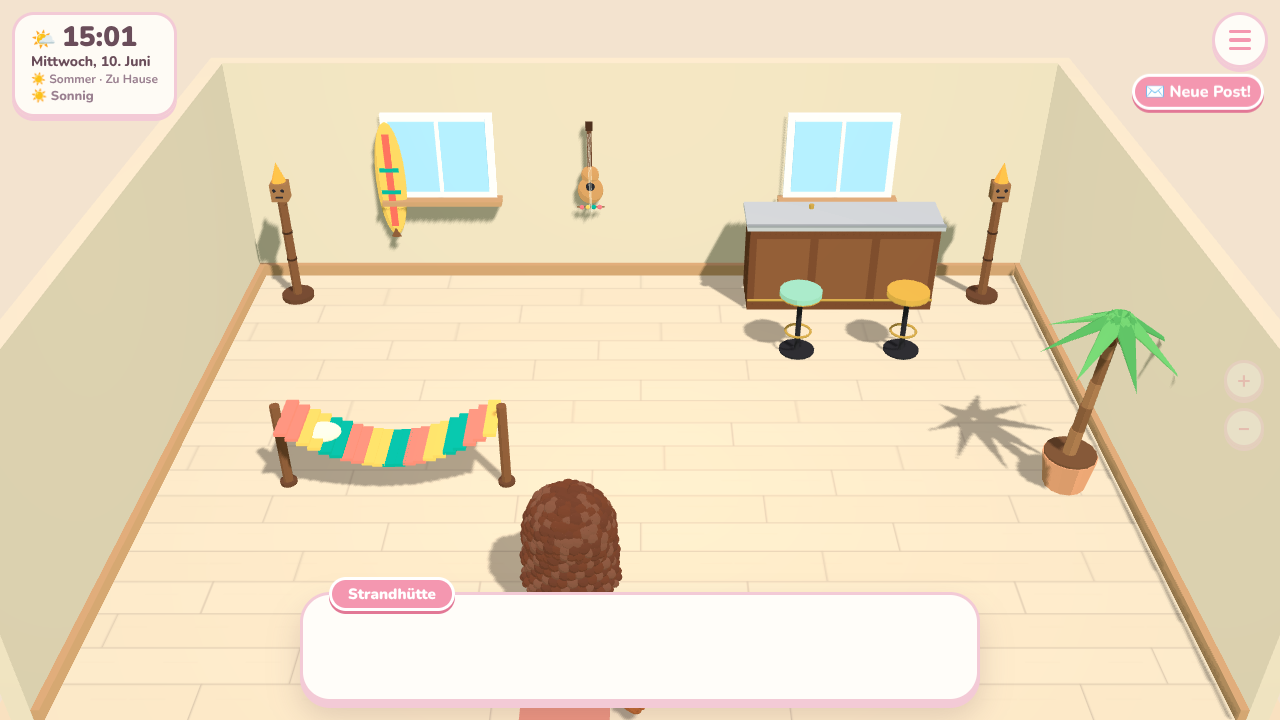
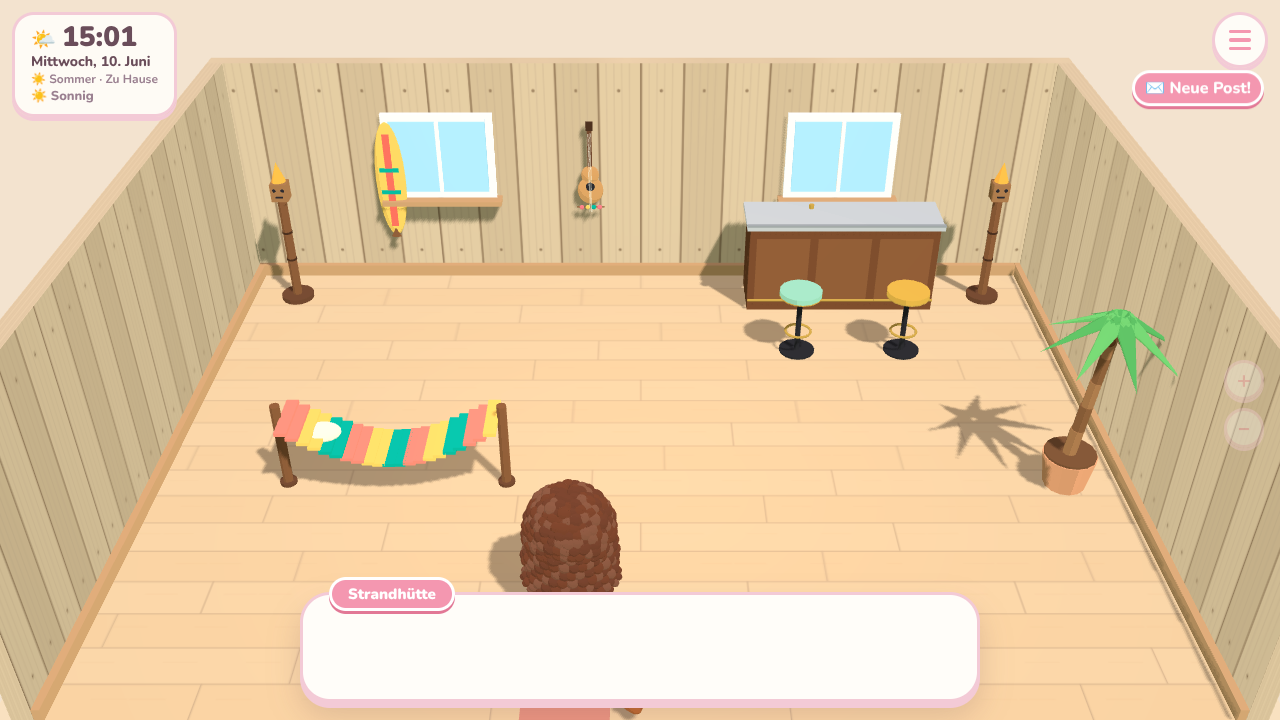
Inselhütte als Strand-Shack: Wellblechdach, Holzbretter außen und innen
Neues Hausmodell makeShack, Tapete tapete-shack mit Brettermuster.

Claude-Session: https://claude.ai/code/session_01ThTYhPHTkGtFy4ue8CC8z3

diff --git a/src/world3d/models/buildings.ts b/src/world3d/models/buildings.ts
@@ -618,6 +618,117 @@ export function makeBistro(): HouseModel {
   return h;
 }
 
+/**
+ * Strand-Shack (Inselhütte): niedriges Holzhaus mit rostigem Wellblechdach, hellen verwitterten Brettern,
+ * weißen Sprossenfenstern, kleiner Veranda und blauem Schild – nach einem Kaffee-Shack an einer Hawaii-Küste.
+ */
+export function makeShack(): HouseModel {
+  const g = new THREE.Group();
+  const P = palette.shack;
+  const W = 4.5;
+  const D = 2.4;
+  const wallH = 1.35;
+  const y0 = 0.3; // Hütte steht auf kleinen Pfählen
+  const zf = D / 2;
+
+  // Pfähle und Bodenbalken
+  for (const x of [-2.1, -0.7, 0.7, 2.1]) for (const z of [-1, 1]) g.add(b(0.14, y0, 0.14, P.boardDark, x, y0 / 2, z));
+  g.add(b(W + 0.1, 0.08, D + 0.1, P.boardDark, 0, y0, 0));
+
+  // Wand aus senkrechten Brettern (abwechselnd helle und dunkle Töne), Fugen als dünne dunkle Leisten
+  g.add(b(W, wallH, D, P.board, 0, y0 + wallH / 2, 0));
+  const boards = 26;
+  for (let i = 0; i <= boards; i++) {
+    const x = -W / 2 + (i / boards) * W;
+    g.add(b(0.025, wallH, 0.03, P.boardDark, x, y0 + wallH / 2, zf + 0.01));
+  }
+  for (let i = 0; i < boards; i += 3) g.add(b(W / boards, wallH, 0.02, i % 2 ? P.boardDark : P.board, -W / 2 + ((i + 0.5) / boards) * W, y0 + wallH / 2, zf + 0.015));
+
+  // flaches Satteldach aus rostigem Wellblech
+  const roofH = 0.75;
+  const over = 0.4;
+  const tri = new THREE.Shape();
+  tri.moveTo(-(D / 2 + over), 0);
+  tri.lineTo(D / 2 + over, 0);
+  tri.lineTo(0, roofH);
+  tri.closePath();
+  const roofGeo = new THREE.ExtrudeGeometry(tri, { depth: W + over * 2, bevelEnabled: false });
+  roofGeo.rotateY(Math.PI / 2);
+  roofGeo.translate(-(W / 2 + over), y0 + wallH, 0);
+  g.add(mesh(roofGeo, toon(P.rust)));
+  // Wellen: schmale Leisten, die vom First zur Traufe laufen, in wechselnden Rosttönen
+  const slope = Math.atan2(roofH, D / 2 + over);
+  const slopeLen = Math.hypot(roofH, D / 2 + over);
+  const ribs = 34;
+  for (const side of [1, -1]) {
+    for (let i = 0; i < ribs; i++) {
+      const x = -(W / 2 + over) + ((i + 0.5) / ribs) * (W + over * 2);
+      const color = i % 5 === 0 ? P.rustDark : i % 2 ? P.rust : P.rustLight;
+      const rib = b(0.05, 0.03, slopeLen, color, x, 0, 0);
+      rib.rotation.x = side * slope;
+      rib.position.set(x, y0 + wallH + roofH / 2 + 0.02, side * ((D / 2 + over) / 2));
+      g.add(rib);
+    }
+  }
+  g.add(b(W + over * 2 + 0.1, 0.06, 0.12, P.rustDark, 0, y0 + wallH + roofH + 0.03, 0));
+  // Blechrohr
+  g.add(c(0.1, 0.5, P.roofMetal, 1.4, y0 + wallH + roofH * 0.7, -0.3));
+
+  // Veranda: Boden, Geländer und Pfosten
+  const vz = zf + 0.5;
+  g.add(b(W - 0.8, 0.07, 0.9, P.boardDark, -0.05, y0 + 0.02, vz - 0.05));
+  g.add(b(0.1, wallH - 0.1, 0.1, P.board, -W / 2 + 0.55, y0 + wallH / 2, vz + 0.35));
+  g.add(b(0.1, wallH - 0.1, 0.1, P.board, W / 2 - 0.65, y0 + wallH / 2, vz + 0.35));
+  g.add(b(W - 1.2, 0.07, 0.07, P.board, -0.05, y0 + 0.52, vz + 0.38));
+  for (let i = 0; i < 11; i++) g.add(b(0.04, 0.4, 0.04, P.board, -W / 2 + 0.7 + (i / 10) * (W - 1.4), y0 + 0.3, vz + 0.38));
+  // Stufen
+  g.add(b(0.9, 0.08, 0.3, P.boardDark, 0, 0.18, vz + 0.55));
+
+  // Tür (Sprossentür)
+  g.add(b(0.62, 1.0, 0.07, '#ffffff', 0, y0 + 0.55, zf + 0.04));
+  g.add(b(0.5, 0.86, 0.06, palette.door.base, 0, y0 + 0.55, zf + 0.07));
+
+  // Fenster: weiße Rahmen mit Sprossen, je mit kleinen Blattpflanzen darunter
+  const windows: THREE.Vector3[] = [];
+  for (const x of [-1.5, 1.5]) {
+    const y = y0 + 0.85;
+    g.add(b(0.78, 0.72, 0.06, '#ffffff', x, y, zf + 0.03));
+    g.add(b(0.64, 0.58, 0.05, windowGlass, x, y, zf + 0.06));
+    for (const dx of [-0.16, 0, 0.16]) g.add(b(0.025, 0.58, 0.05, '#ffffff', x + dx, y, zf + 0.09));
+    for (const dy of [-0.15, 0.15]) g.add(b(0.64, 0.025, 0.05, '#ffffff', x, y + dy, zf + 0.09));
+    windows.push(new THREE.Vector3(x, y, zf + 0.1));
+  }
+  // Topfpflanzen auf der Veranda (rot-grüne Blätter)
+  for (const [x, col] of [[-1.7, '#b0434d'], [1.6, '#4c9a55']] as const) {
+    g.add(c(0.14, 0.2, '#c77a52', x, y0 + 0.16, vz + 0.2));
+    g.add(s(0.22, 0.2, 0.22, col, x, y0 + 0.4, vz + 0.2));
+  }
+
+  // Schild über dem Dach: blaues Brett mit orangefarbener Schrift
+  const sign = document.createElement('canvas');
+  sign.width = 400;
+  sign.height = 80;
+  const ctx = sign.getContext('2d') as CanvasRenderingContext2D;
+  ctx.fillStyle = P.sign;
+  ctx.fillRect(0, 0, 400, 80);
+  ctx.textAlign = 'center';
+  ctx.textBaseline = 'middle';
+  ctx.fillStyle = P.signText;
+  ctx.font = '800 44px "Nunito Variable", Nunito, sans-serif';
+  ctx.fillText('Strand-Shack', 200, 42);
+  const tex = new THREE.CanvasTexture(sign);
+  tex.colorSpace = THREE.SRGBColorSpace;
+  const board = new THREE.Mesh(new THREE.PlaneGeometry(2.1, 0.42), new THREE.MeshLambertMaterial({ map: tex }));
+  board.position.set(-0.3, y0 + wallH + roofH + 0.45, 0.3);
+  g.add(board);
+  for (const x of [-1.3, 0.7]) g.add(b(0.05, 0.4, 0.05, P.boardDark, x, y0 + wallH + roofH + 0.2, 0.28));
+
+  g.traverse((o) => {
+    if ((o as THREE.Mesh).isMesh) o.castShadow = true;
+  });
+  return { group: g, windows };
+}
+
 /** Lars' Praxis mit kleiner Apotheke: weißes Haus mit grünem Kreuz, Schild, Kräuterkübeln & Bank */
 export function makePraxis(): HouseModel {
   const h = makeHouse(palette.roof.mint);

diff --git a/src/data/furniture.ts b/src/data/furniture.ts
@@ -410,6 +410,7 @@ export const WALLPAPERS: readonly SurfaceDef[] = [
   { id: 'tapete-uni-bordeaux', name: 'Einfarbig Bordeaux', style: 'retro', price: 450, kind: 'tapete', pattern: 'flach', color: '#8d3b45', accent: '#8d3b45', description: 'Satt und gemütlich wie ein Samtsessel.' },
   { id: 'tapete-uni-nachtblau', name: 'Einfarbig Nachtblau', style: 'modern', price: 450, kind: 'tapete', pattern: 'flach', color: '#34406b', accent: '#34406b', description: 'Wie der Himmel um Mitternacht.' },
   { id: 'tapete-kalkputz', name: 'Lehmputz', style: 'japandi', price: 650, kind: 'tapete', pattern: 'putz', color: '#e6dccb', accent: '#cdbfa8', description: 'Eine Wand wie von Hand verputzt – warm, matt und ganz leicht wolkig.' },
+  { id: 'tapete-shack', name: 'Verwitterte Holzbretter', style: 'basis', price: 800, kind: 'tapete', pattern: 'bretter', color: '#dcc3a3', accent: '#b89a74', description: 'Helle, von Sonne und Salz gebleichte Bretter wie an einer kleinen Strandhütte.' },
   { id: 'tapete-holzlatten', name: 'Holzlatten-Wand', style: 'japandi', price: 950, kind: 'tapete', pattern: 'latten', color: '#d9b98c', accent: '#a9875e', description: 'Schmale Eichenlatten mit dunklen Fugen. Riecht ein bisschen nach Sauna im Wald.' },
   { id: 'tapete-bibliothek', name: 'Dunkle Holzvertäfelung', style: 'darkacademia', price: 1000, kind: 'tapete', pattern: 'vertaefelung', color: '#5a3a2a', accent: '#4a2e20', description: 'Halbhohe Paneele aus dunklem Holz – wie im Lesesaal einer alten Universität.' },
   { id: 'tapete-faecher', name: 'Fächer-Tapete', style: 'artdeco', price: 900, kind: 'tapete', pattern: 'faecher', color: '#1f3a33', accent: '#d9b45a', description: 'Goldene Fächer auf dunklem Smaragd. Ein bisschen Zwanziger-Jahre-Glamour.' },

diff --git a/src/gfx/interior.ts b/src/gfx/interior.ts
@@ -495,6 +495,27 @@ export function drawPattern(ctx: CanvasRenderingContext2D, def: SurfaceDef, s: n
       }
       break;
     }
+    case 'bretter': {
+      // breite, verwitterte Bretter mit deutlichen Fugen, Maserung und Nagelköpfen (Strand-Shack)
+      const n = 5;
+      const w = s / n;
+      for (let i = 0; i < n; i++) {
+        ctx.fillStyle = i % 2 ? darken(color, 0.06) : lighten(color, 0.04);
+        ctx.fillRect(i * w, 0, w, s);
+        ctx.globalAlpha = 0.25;
+        ctx.fillStyle = darken(color, 0.25);
+        for (let k = 0; k < 4; k++) ctx.fillRect(i * w + w * (0.2 + 0.18 * k), 0, Math.max(1, s / 160), s);
+        ctx.globalAlpha = 1;
+        ctx.fillStyle = darken(accent, 0.25);
+        ctx.fillRect(i * w, 0, Math.max(2, w * 0.05), s);
+        for (const y of [s * 0.12, s * 0.88]) {
+          ctx.beginPath();
+          ctx.arc(i * w + w / 2, y, s / 140, 0, Math.PI * 2);
+          ctx.fill();
+        }
+      }
+      break;
+    }
     case 'vertaefelung': {
       // senkrechte Holzleisten mit Fugen + Abschlussleiste oben
       ctx.fillStyle = accent;

diff --git a/src/data/gastHaeuser.ts b/src/data/gastHaeuser.ts
@@ -126,8 +126,8 @@ export const GUEST_HOUSES: Readonly<Record<string, GuestHouse>> = {
   'haus-thalia': {
     npc: 'thalia',
     name: 'Thalias Häuschen',
-    wallpaper: 'tapete-uni-sand',
-    floor: 'boden-dielen-esche',
+    wallpaper: 'tapete-shack',
+    floor: 'boden-dielen',
     // Schlicht und Mid-Century: wenige gute Stücke, viel Luft
     items: [
       { id: 'teaksideboard', x: 3, y: 0 },
@@ -292,8 +292,8 @@ export const GUEST_HOUSES: Readonly<Record<string, GuestHouse>> = {
   inselhuette: {
     npc: '',
     name: 'Strandhütte',
-    wallpaper: 'tapete-uni-sand',
-    floor: 'boden-dielen-esche',
+    wallpaper: 'tapete-shack',
+    floor: 'boden-dielen',
     items: [
       { id: 'surfbrett', x: 1, y: 0, rot: 0 },
       { id: 'ukulele', x: 3, y: 0, rot: 0 },

diff --git a/src/world3d/MapView3D.ts b/src/world3d/MapView3D.ts
@@ -17,6 +17,7 @@ import {
   makeBridge,
   makeFountain,
   makeHouse,
+  makeShack,
   makeLantern,
   makeMailbox,
   makePlotMarks,
@@ -113,7 +114,7 @@ export function buildMapView3D(scene: THREE.Scene, map: WorldMap, season: Season
         node = makeRock(seed);
         break;
       case 'house': {
-        const h: HouseModel = makeHouse(ROOF[o.variant ?? 'rose'] ?? palette.roof.rose);
+        const h: HouseModel = o.variant === 'shack' ? makeShack() : makeHouse(ROOF[o.variant ?? 'rose'] ?? palette.roof.rose);
         node = h.group;
         for (const w of h.windows) windows.push(w.clone().add(new THREE.Vector3(c.x, 0, c.z)));
         occluders.push({ id: o.id, node, x: c.x, z: c.z, w: o.w, h: o.h });

diff --git a/src/data/maps/insel.ts b/src/data/maps/insel.ts
@@ -51,6 +51,6 @@ export const INSEL_FEST = { x: 28, y: 52 };
 /** Boote: am Dorfstrand und auf der Insel (erscheinen, sobald alle Herzen voll sind) */
 export const INSEL_OBJECTS: readonly MapObjectDef[] = [
   { id: 'boot-dorf', kind: 'landmark', variant: 'boot', x: 27, y: 36, w: 2, h: 1, requires: 'inselOffen' },
-  { id: 'inselhuette', kind: 'house', variant: 'butter', x: 33, y: 49, requires: 'inselFest' },
+  { id: 'inselhuette', kind: 'house', variant: 'shack', x: 33, y: 49, requires: 'inselFest' },
   { id: 'boot-insel', kind: 'landmark', variant: 'boot', x: 15, y: 52, w: 2, h: 1, requires: 'inselOffen' },
 ];

diff --git a/src/style/palette.ts b/src/style/palette.ts
@@ -42,6 +42,8 @@ export const palette = {
     sky: '#a9cdf2',
   },
   wall: { cream: '#fff5e3', shade: '#f1e2c8', trim: '#ffffff' },
+  /** Strand-Shack: verwittertes Holz, rostiges Wellblech, blaues Schild */
+  shack: { board: '#dcc3a3', boardDark: '#c9ad8a', rust: '#b86a3e', rustDark: '#8f4a2a', rustLight: '#d08a55', sign: '#4f8fd0', signText: '#f0a55a', roofMetal: '#8a9097' },
   window: { glass: '#cfeefc', frame: '#ffffff', glow: '#ffe6a3' },
   door: { base: '#d99c78', dark: '#b97f5f' },
 

diff --git a/src/data/catalog.ts b/src/data/catalog.ts
@@ -479,7 +479,7 @@ const SURFACE_STYLES: Record<string, DesignStyle[]> = {
   'boden-hexmosaik': ['bistro'],
 };
 
-const WALL_MATERIAL = new Set(['kacheln', 'backstein', 'glas', 'vertaefelung', 'shoji', 'putz', 'latten', 'sichtbeton']);
+const WALL_MATERIAL = new Set(['kacheln', 'backstein', 'glas', 'vertaefelung', 'shoji', 'putz', 'latten', 'bretter', 'sichtbeton']);
 const FLOOR_TYPE: Record<string, string> = {
   dielen: 'dielen',
   schiff: 'dielen',

diff --git a/docs/game-mechanics.md b/docs/game-mechanics.md
@@ -225,7 +225,7 @@ Wetter und Feste laufen nach echter Zeit.
 - **Sträuße lohnen sich (Nov. 2026):** (1) **Geliebter Strauß:** Schenkt Lina einen Strauß, den die Person „liebt“, gibt es **10 Freundschaftspunkte mehr** (30 + 10) und eine eigene Dankes-Zeile (nur beim ersten Geschenk des Tages; gemochte Sträuße wie bisher). (2) **Lust auf einen Strauß:** Alle vier Wochen (reproduzierbar je Person und Woche, ohne Ablauf und ohne Strafe) hat jemand Lust auf einen bestimmten Strauß aus seinen Lieblingen (nur Sträuße ohne Spezialrezept) und erzählt es beim ersten Ansprechen des Tages, höchstens einmal am Tag; wer genau diesen Strauß schenkt, bekommt **noch einmal 10** und eine eigene Dankes-Zeile, danach ist die Lust gestillt. (3) **Vase im Haus:** Steht eine Vase mit Strauß oder ein Kranz im Haus, erwähnen das Gäste beim Besuch und alle Bewohner beim Plaudern (Erinnerungs-Tag `blumendeko`). Gemerkt in `world.dates` (`strauss-lust:<id>`, `strauss-gesagt:<id>`), kein neues Spielstand-Format. Logik `game/straussLust.ts`, Texte `data/straussLust.ts`.
 - **Strauß-Preise (Nov. 2026):** Sträuße sind jetzt etwa 2,5–3× so viel wert wie ihre Zutaten (Rosenstrauß 360 ⭐, Bunter Frühlingsstrauß 350, Lavendelstrauß 340, Sonnenblumenstrauß 250, Kräuterbund 180, Mischfarben-Strauß 540, Schwarzer Strauß 1 200). Gebunden wird weiter an Opas Werkbank, Reiter „Blumen“.
 - **Die versteckte Insel (Nov. 2026):** Die große Belohnung, wenn Lina bei **allen sieben Bewohnern alle fünf Herzen** hat (`game/insel.ts → alleHerzen`; alle müssen im Dorf wohnen). Dann taucht ein **Ruderboot am Dorfstrand** auf (Toast, Flag `inselOffen`, bleibt für immer). Beim Boot: „⛵ Zur Insel rudern“, Überfahrt mit Abblenden. Die Insel liegt im selben Kartenraster unterhalb des Dorfes (ab Reihe 40, `data/maps/insel.ts`), weit hinter dem tiefen Meer – zu Fuß unerreichbar: weißer Sand, Palmen (neue Naturart `Y`/`palme`), Blumenwiese, Büsche; sie ist **immer sonnig und sommerlich** (Wetter erzwingt „sonnig“ solange `session.onIsland`, Boden und Büsche bleiben auch im Winter sommerlich, keine Flocken, keine Fußspuren im Schnee) und hat **eigene Hawaii-Musik** (`insel`, `insel-lagune`, `insel-hula`, `insel-abendrot`: Ukulele, Marimba, leichter Swing). Beim **allerersten Besuch** erwartet Lina eine **Überraschungsparty**: alle sieben Bewohner stehen am Festplatz und sagen etwas Persönliches, danach gibt es die **Kiste**: das **Inselset** (Inselpalme, zwei Tiki-Fackeln, Hängematte, Surfbrett – nur als Geschenk, kein Katalog-Eintrag, `gift: true`). Danach ist die Insel jederzeit mit dem Boot erreichbar (Boot auf der Insel: zurück ins Dorf). Dorf-Zufallsfunde (Grabstellen, Strandfunde, Insekten) lassen die Insel aus; die Dorfkarte (M) zeigt nur das Dorf. Im Album: „Boot“ und „Party“. Kein neues Spielstand-Format (Flags `inselOffen`/`inselFest`, `world.dates`). Logik `game/insel.ts`, Szene `World3D.row/inselFest`, Texte `data/insel.ts`.
-- **Inselhütte & Ukulele (Nov. 2026):** Nach dem ersten Fest steht an der Ostseite der Insel eine **Strandhütte** (Karten-Objekt `inselhuette`, `requires: 'inselFest'`). Innen (Gasthaus-System `data/gastHaeuser.ts`, niemand wohnt dort, `npc: ''`): Surfbrett, **Ukulele**, Tiki-Fackeln, Hängematte, Palme und eine **Strandbar** mit Barhockern – dort gibt es **Kokoswasser** (alkoholfrei, `DrinkKind 'kokos'`), Double Lemon, Bier und Wasser. Das Inselset enthält jetzt auch die **Ukulele** (Wandmöbel, `gift: true`, auch im eigenen Haus aufhängbar). Anklicken → „🎶 Spielen“ öffnet das Ukulele-Fenster: vier Akkorde (C, Am, F, G) per Klick oder Tasten A S D F / 1–4, **keine Punkte, keine falschen Töne** (Web-Audio-Zupfklänge `uke-*`); nach 16 Schlägen ein kleiner Gruß. UI `ui/UkulelePanel.tsx`.
+- **Inselhütte & Ukulele (Nov. 2026):** Nach dem ersten Fest steht an der Ostseite der Insel ein **Strand-Shack** (rostiges Wellblechdach, helle verwitterte Bretter, Sprossenfenster, Veranda, Schild „Strand-Shack“; Modell `makeShack`, Karten-Objekt `inselhuette`, `requires: 'inselFest'`). Innen: Wände aus verwitterten Holzbrettern (neue Tapete `tapete-shack`, Muster `bretter`) und helle Dielen (Gasthaus-System `data/gastHaeuser.ts`, niemand wohnt dort, `npc: ''`): Surfbrett, **Ukulele**, Tiki-Fackeln, Hängematte, Palme und eine **Strandbar** mit Barhockern – dort gibt es **Kokoswasser** (alkoholfrei, `DrinkKind 'kokos'`), Double Lemon, Bier und Wasser. Das Inselset enthält jetzt auch die **Ukulele** (Wandmöbel, `gift: true`, auch im eigenen Haus aufhängbar). Anklicken → „🎶 Spielen“ öffnet das Ukulele-Fenster: vier Akkorde (C, Am, F, G) per Klick oder Tasten A S D F / 1–4, **keine Punkte, keine falschen Töne** (Web-Audio-Zupfklänge `uke-*`); nach 16 Schlägen ein kleiner Gruß. UI `ui/UkulelePanel.tsx`.
 - **Verstecke (Nov. 2026):** Vier geheime Orte auf der Dorfkarte, jeder mit einem kleinen Fund (`data/verstecke.ts`): *Die stille Lichtung* (oben links, Glitzerlicht), *Der Waldwinkel* (oben rechts, Vogeltränke), *Die Felsnische* (unten links neben dem großen Felsen, Steinmännchen) und *Das Treibgut* (Strand ganz im Osten, Flaschenpost, zwei Seesterne, Muschellampe). **Drei Wege dorthin:** (1) mit der Schaufel einfach an genau der Stelle graben (kein Hinweis nötig), (2) Winston schnüffelt aufgeregt, sobald Lina unter 3,5 Kacheln nah ist (die Stelle funkelt dann wie eine Grabstelle), (3) Thalia, die Geografin, erzählt ab und zu (alle vier Tage reproduzierbar, ohne Druck) von einer alten Karte; dann steht ein **✕ auf der Dorfkarte** (Taste M), bis das Versteck gefunden ist. Funde nur einmal, nichts verfällt, kein Zähler im Notizbuch; sie erscheinen als Momente im Album. Volle Tasche: Der Rest liegt vor Linas Füßen. Gemerkt in `world.dates['versteck:<id>']` und Flag `versteck-hinweis-<id>`, kein neues Spielstand-Format. Logik `game/verstecke.ts`, Welt `World3D.openVersteck/updateVersteckSniff`, Funkeln `DigSpots3D`.
 - **Fenster mit fester Größe:** Postfach (Briefliste & Brief scrollen innen) und Tasche/Verkaufen (Beschreibung scrollt innen) wachsen nicht mehr mit dem Inhalt. Nachgemessen: Postfach, Tasche, Verkaufen, Sammelbuch, Galerie, Truhe, Werkbank/Küche/Apotheke, Samenstand, Notizbuch, TV bleiben beim Durchklicken gleich groß.
 - **Linas Lieblingsgetränke:** Coca-Cola Zero und Monster Energy White kommen in Plaudereien von Oli, Lars, Thalia und Oma vor und stehen im Retro-Kühlschrank (Namen auf Wunsch echt, keine Logos).
